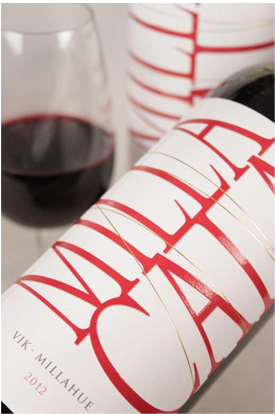
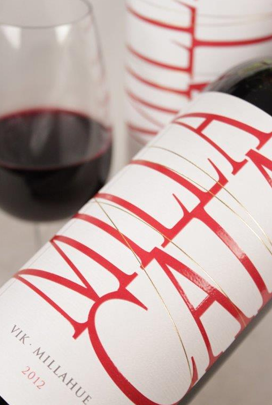
Аdded the wine container and modified wine image

diff --git a/index.html b/index.html
@@ -7,9 +7,9 @@
     <meta name="viewport" content="width=device-width, initial-scale=1">
     <link rel="stylesheet" href="https://maxcdn.bootstrapcdn.com/bootstrap/4.0.0/css/bootstrap.min.css" integrity="sha384-Gn5384xqQ1aoWXA+058RXPxPg6fy4IWvTNh0E263XmFcJlSAwiGgFAW/dAiS6JXm" crossorigin="anonymous">
     <link rel="stylesheet" href="https://maxcdn.bootstrapcdn.com/bootstrap/4.3.1/css/bootstrap.min.css">
-    <script src="https://ajax.googleapis.com/ajax/libs/jquery/3.4.1/jquery.min.js"></script>
-    <script src="https://cdnjs.cloudflare.com/ajax/libs/popper.js/1.14.7/umd/popper.min.js"></script>
-    <script src="https://maxcdn.bootstrapcdn.com/bootstrap/4.3.1/js/bootstrap.min.js"></script>
+    <script src="//code.jquery.com/jquery-3.3.1.min.js"></script>
+    <link rel="stylesheet" href="https://cdn.jsdelivr.net/gh/fancyapps/fancybox@3.5.7/dist/jquery.fancybox.min.css" />
+    <script src="https://cdn.jsdelivr.net/gh/fancyapps/fancybox@3.5.7/dist/jquery.fancybox.min.js"></script>
     <link rel="stylesheet" type="text/css" href="style.css">
     <!-- <script src="main.js"></script> -->
 </head>
@@ -54,7 +54,7 @@
         </div>
     </header>
     <p class="text-danger handwritten_font text_margin text-center">Who we are</p>
-    <p class="text-dark well_versed_font text-center">ABOUT US</p>
+    <p class="text-dark font_size_large text-center">ABOUT US</p>
     <div class="row container_margin">
         <div class="col-6 text_align">
             <p>Lorem ipsum dolor sit amet, consectetur adipisicing elit, sed do eiusmod tempor incididunt ut labore et dolore magna aliqua. Ut enim ad minim veniam, quis nostrud exercitation ullamco laboris nisi ut aliquip ex ea commodo consequat. Duis aute irure dolor in reprehenderit in voluptate velit esse cillum dolore eu fugiat nulla pariatur.</p>
@@ -67,7 +67,7 @@
     </div>
     <div class="background_color_brown full_width div_padding">
         <p class="text-danger handwritten_font text-center">Cooking</p>
-        <p class="font_sans_serif well_versed_font text-center">CLASSES</p>
+        <p class="font_sans_serif font_size_large text-center">CLASSES</p>
         <p class="text-white container_margin text-center">Lorem ipsum dolor sit amet, consectetur adipisicing elit, sed do eiusmod tempor incididunt ut labore et dolore magna aliqua. Ut enim ad minim veniam, quis nostrud exercitation ullamco laboris nisi ut aliquip ex ea commodo consequat. Duis aute irure dolor in reprehenderit in voluptate velit esse cillum dolore eu fugiat nulla pariatur.
         </p>
         <div class="text_margin text-center">
@@ -80,11 +80,62 @@
         </div>
         <div class="col-6 text_align">
             <p class="text-danger handwritten_font no_margin_bottom text-center">Personal</p>
-            <p class="text-dark well_versed_font text-center">Training</p>
+            <p class="text-dark font_size_large text-center">Training</p>
             <p>Lorem ipsum dolor sit amet, consectetur adipisicing elit, sed do eiusmod tempor incididunt ut labore et dolore magna aliqua. Ut enim ad minim veniam, quis nostrud exercitation ullamco laboris nisi ut aliquip ex ea commodo consequat. </p>
             <p>Duis aute irure dolor in reprehenderit in voluptate velit esse cillum dolore eu fugiat nulla pariatur.</p>
             <p>Excepteur sint occaecat cupidatat non proident, sunt in culpa qui officia deserunt mollit anim id est laborum. Sed ut perspiciatis unde omnis iste natus error sit voluptatem accusantium doloremque laudantium, totam rem aperiam, eaque ipsa quae ab illo inventore veritatis et quasi architecto beatae vitae dicta sunt explicabo.</p>
-            <p class="text-dark well_versed_font text-center">Call as <span class="text-danger">123-456-789</span></p>
+            <p class="text-dark font_size_large text-center">Call as <span class="text-danger">123-456-789</span></p>
+        </div>
+    </div>
+    <div class="background_color_brown full_width div_padding">
+        <p class="text-danger handwritten_font text-center">Wine</p>
+        <p class="font_sans_serif font_size_large text-center">TASTING</p>
+        <div class="row container_margin">
+            <div class="col-sm-3 text-center">
+                <a data-fancybox="gallery" href="img/wine1.png"><img src="img/wine1.png" class="size_img"></a>
+                <p class="text-white font_size_medium text-center">MAYACAMAS VINEYARDS</p>
+                <p class="text-white font_size_medium text-center">CABERNET SAUVIGNON 1999</p>
+            </div>
+            <div class="col-sm-3 text-center">
+                <a data-fancybox="gallery" href="img/wine2.png"><img src="img/wine2.png" class="size_img"></a>
+                <p class="text-white font_size_medium text-center">HERMANN J. WIEMER HJW</p>
+                <p class="text-white font_size_medium text-center"> VINEYARD RIESLING 2016</p>
+            </div>
+            <div class="col-sm-3 text-center">
+                <a data-fancybox="gallery" href="img/wine3.png"><img src="img/wine3.png" class="size_img"></a>
+                <p class="text-white font_size_medium text-center">VIÑA VIK MILLAHUE</p>
+                <p class="text-white font_size_medium text-center">2012</p>
+            </div>
+            <div class="col-sm-3 text-center">
+                <a data-fancybox="gallery" href="img/wine4.png"><img src="img/wine4.png" class="size_img"></a>
+                <p class="text-white font_size_medium text-center">KIR-YIANNI ESTATE RAMNISTA</p>
+                <p class="text-white font_size_medium text-center">2013</p>
+            </div>
+        </div>
+        <div class="row container_margin">
+            <div class="col-sm-3 text-center">
+                <a data-fancybox="gallery" href="img/wine5.png"><img src="img/wine5.png" class="size_img"></a>
+                <p class="text-white font_size_medium text-center">TABLAS CREEK VINEYARD ESPRIT</p>
+                <p class="text-white font_size_medium text-center">DE TABLAS BLANC 2015</p>
+            </div>
+            <div class="col-sm-3 text-center">
+                <a data-fancybox="gallery" href="img/wine6.png"><img src="img/wine6.png" class="size_img"></a>
+                <p class="text-white font_size_medium text-center">DELAMOTTE BLANC DE BLANCS</p>
+                <p class="text-white font_size_medium text-center">BRUT 2008</p>
+            </div>
+            <div class="col-sm-3 text-center">
+                <a data-fancybox="gallery" href="img/wine7.png"><img src="img/wine7.png" class="size_img"></a>
+                <p class="text-white font_size_medium text-center">AZIENDA AGRICOLA ARIANNA</p>
+                <p class="text-white font_size_medium text-center">OCCHIPINTI SP68 SICILIA ROSSO IGT 2017</p>
+            </div>
+            <div class="col-sm-3 text-center">
+                <a data-fancybox="gallery" href="img/wine8.png"><img src="img/wine8.png" class="size_img"></a>
+                <p class="text-white font_size_medium text-center">DAMILANO BAROLO</p>
+                <p class="text-white font_size_medium text-center">LECINQUEVIGNE 2013</p>
+            </div>
+        </div>
+        <div class="text_margin text-center">
+            <button type="button" class="btn btn-danger">LOAD MORE</button>
         </div>
     </div>
 </body>

diff --git a/style.css b/style.css
@@ -41,8 +41,12 @@
     margin-bottom: 0;
 }
 
-.well_versed_font {
+.font_size_large {
     font-size: 30px;
+}
+
+.font_size_medium {
+	font-size: 15px;
 }
 
 .container_margin {
@@ -57,6 +61,7 @@
     width: 100%;
 }
 
+
 .background_color_brown {
 	background-color: #22191A;
 }
@@ -69,3 +74,48 @@
 .no_margin_bottom {
 	margin-bottom: 0;
 }
+
+.size_img {
+	width: 95%;
+	height: 240px;
+}
+
+.end_background_img {
+    position: relative;
+    background-color: #000;
+}
+
+.end_background_img::before{
+    content: ' ';
+    display: block;
+    position: absolute;
+    left: 0;
+    top: 0;
+    width: 100%;
+    height: 100%;
+    z-index: 0;
+    opacity: 0.5;
+    background: url(img/salad.png) no-repeat center center;
+    background-size: cover;
+}
+
+.content_end_background_img{
+  position: relative;
+  padding-left: 100px;
+}
+/*	position: relative;
+    background-color: #000;
+}
+
+.end_background_img::before {
+	background-image: url(img/salad.png);
+	display: block;
+    position: absolute;
+	background-position: center;
+    background-repeat: no-repeat;
+    background-size: cover;
+    z-index: 0;
+    width: 100%;
+    height: 50vw;
+    opacity: 0.5;
+}*/
